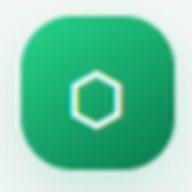
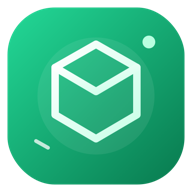
Add files via upload

diff --git a/index.html b/index.html
@@ -6,34 +6,36 @@
 <meta name="theme-color" content="#082c25">
[2 lines of base64/hex data omitted]
-<title>3D Tisk Jarmark</title>
+<title>OPEN 3D MANAGER</title>
 <style>
 :root{--bg:#f3f7f5;--card:#fff;--ink:#142a25;--muted:#6d817b;--green:#0b9b61;--green2:#dff7ec;--line:#e1ebe6;--dark:#082c25;--shadow:0 12px 34px #12382a12}
-*{box-sizing:border-box}body{margin:0;background:var(--bg);color:var(--ink);font-family:Inter,ui-sans-serif,system-ui,-apple-system,BlinkMacSystemFont,"Segoe UI",sans-serif;padding-bottom:100px}button,input{font:inherit}button{cursor:pointer}.app{max-width:1120px;margin:auto;padding:20px 16px 24px}.top{display:flex;align-items:center;gap:13px;margin:6px 0 22px}.logo{width:48px;height:48px;border-radius:16px;background:linear-gradient(145deg,#26d58b,#087a4d);display:grid;place-items:center;color:white;font-size:25px;box-shadow:0 8px 20px #0b9b6130}.title{flex:1;min-width:0}.title h1{font-size:clamp(20px,4vw,28px);letter-spacing:-.8px;margin:0;font-weight:850}.title p{margin:4px 0 0;color:var(--muted);font-size:13px}.iconbtn{border:1px solid var(--line);background:white;border-radius:14px;width:42px;height:42px;color:var(--ink);font-size:19px}.deleteRow{color:#d92d20;background:#fff0ee;border-color:#ffd1cc;font-size:18px;display:inline-grid;place-items:center}.hero{background:linear-gradient(120deg,#07372c,#0a6042);border-radius:24px;padding:22px;color:white;display:flex;align-items:center;justify-content:space-between;gap:12px;box-shadow:var(--shadow);margin-bottom:18px}.hero small{opacity:.75;font-weight:650}.hero h2{font-size:23px;margin:5px 0 4px;letter-spacing:-.5px}.hero p{margin:0;color:#d2eee1;font-size:13px}.hero .cube{font-size:52px;opacity:.9}.actions{display:flex;gap:9px;flex-wrap:wrap;margin-bottom:16px}.btn{border:0;border-radius:13px;padding:12px 15px;font-weight:750;display:inline-flex;align-items:center;justify-content:center;gap:8px}.primary{background:var(--green);color:white;box-shadow:0 7px 18px #0b9b6126}.secondary{background:white;color:var(--ink);border:1px solid var(--line)}.danger{background:#fff0ee;color:#b9362a}.panel{background:var(--card);border:1px solid var(--line);border-radius:20px;box-shadow:var(--shadow);overflow:hidden}.panelhead{padding:17px 18px;display:flex;justify-content:space-between;align-items:center;gap:10px;border-bottom:1px solid var(--line)}.panelhead h3{margin:0;font-size:16px}.panelhead p{margin:4px 0 0;color:var(--muted);font-size:12px}.search{width:100%;max-width:260px;border:1px solid var(--line);border-radius:12px;padding:10px 12px;background:#f9fbfa;outline-color:var(--green)}.tablewrap{overflow-x:auto}table{border-collapse:separate;border-spacing:0;width:100%;min-width:790px}th{background:#e5f7ef;color:#245345;font-size:11px;text-transform:uppercase;letter-spacing:.45px;text-align:left;padding:13px 12px;white-space:nowrap}td{padding:11px 10px;border-top:1px solid #edf2ef;vertical-align:middle}tr:hover td{background:#fbfefc}.productname{min-width:150px;font-weight:750;font-size:13px}.sub{display:block;color:var(--muted);font-size:11px;font-weight:500;margin-top:3px}.cell{width:100%;min-width:65px;border:1px solid #e0eae5;background:#fbfdfc;border-radius:9px;padding:9px 7px;color:var(--ink);outline-color:var(--green);font-size:13px}.cell.price{background:#eaf9f1;border-color:#d7f1e3;color:#087348;font-weight:800}.cell.name{min-width:130px}.summary{display:grid;grid-template-columns:repeat(3,1fr);gap:10px;padding:14px}.stat{background:#eff9f4;border:1px solid #e0f3e9;border-radius:14px;padding:14px}.stat span{display:block;color:#527166;font-size:11px}.stat strong{display:block;margin-top:5px;font-size:20px;letter-spacing:-.5px}.empty{padding:32px;text-align:center;color:var(--muted)}.bottomnav{position:fixed;z-index:10;bottom:0;left:0;right:0;padding:9px 12px calc(9px + env(safe-area-inset-bottom));background:#092c26;color:#a8c5bb;display:flex;justify-content:center;gap:8px;box-shadow:0 -8px 30px #092c261a}.navbtn{border:0;background:transparent;color:inherit;border-radius:14px;min-width:90px;max-width:180px;flex:1;padding:8px 10px;display:flex;align-items:center;justify-content:center;gap:6px;flex-direction:column;font-size:11px;font-weight:700}.navbtn .navico{font-size:20px;line-height:1}.navbtn.active{background:#164a3b;color:#55e6a1}.view{display:none}.view.active{display:block}.calcgrid{display:grid;grid-template-columns:1fr .8fr;gap:16px}.pad{padding:20px}.label{display:block;font-size:13px;font-weight:750;margin-bottom:8px}.biginput{width:100%;padding:16px;border:1px solid var(--line);border-radius:14px;font-size:25px;font-weight:800;outline-color:var(--green);background:#f9fcfa}.unit{position:relative}.unit em{position:absolute;right:15px;top:50%;transform:translateY(-50%);font-style:normal;color:var(--muted);font-weight:700}.presets{display:flex;flex-wrap:wrap;gap:7px;margin-top:10px}.preset{border:1px solid var(--line);background:#f5f8f6;padding:9px 12px;border-radius:10px;font-size:12px;font-weight:750}.result{background:linear-gradient(135deg,#e7f9ef,#f4fcf7);border:1px solid #d6f1e2;border-radius:18px;padding:23px;margin-top:18px}.result span{font-size:13px;color:#497362;font-weight:700}.result strong{display:block;color:#08764a;font-size:clamp(34px,7vw,48px);letter-spacing:-1.5px;margin-top:7px}.hint{color:var(--muted);font-size:12px;line-height:1.5}.settingslist{display:grid;gap:15px;padding:18px}.setting{border:1px solid var(--line);border-radius:15px;padding:16px}.setting h4{margin:0 0 6px}.setting p{margin:0 0 13px;color:var(--muted);font-size:12px;line-height:1.5}.settingrow{display:flex;gap:10px;align-items:center}.settingrow input{max-width:180px;width:100%;border:1px solid var(--line);border-radius:10px;padding:11px}.toast{position:fixed;z-index:20;left:50%;bottom:100px;transform:translateX(-50%);background:#123b2e;color:white;border-radius:12px;padding:11px 15px;font-size:13px;box-shadow:var(--shadow);opacity:0;pointer-events:none;transition:opacity .2s}.toast.show{opacity:1}.modalback{position:fixed;z-index:30;inset:0;background:#061d17a8;display:none;align-items:center;justify-content:center;padding:18px}.modalback.show{display:flex}.modal{background:white;border-radius:20px;padding:22px;width:min(440px,100%);box-shadow:0 25px 80px #0003}.modal h3{margin:0 0 8px}.modal p{color:var(--muted);font-size:13px}.modal input{width:100%;padding:12px;border:1px solid var(--line);border-radius:11px;margin:6px 0 14px}.modalactions{display:flex;gap:9px;justify-content:flex-end}.mobilehint{display:none}
-@media(max-width:700px){.app{padding:15px 12px 20px}.top{margin-bottom:16px}.hero{padding:17px;border-radius:19px}.hero h2{font-size:20px}.hero .cube{font-size:40px}.actions .btn{flex:1;font-size:12px;padding:11px 9px}.panelhead{align-items:flex-start;flex-direction:column}.search{max-width:none}.tablewrap{overflow:visible;padding:0 10px 10px}table,tbody,tr,td{display:block;width:100%;min-width:0}thead{display:none}tbody{display:grid;grid-template-columns:1fr;gap:10px;padding-top:10px}tr{position:relative;border:1px solid var(--line);border-radius:15px;padding:12px;background:white;box-shadow:0 3px 10px #102f1e06}td{border:0;padding:5px 0;display:grid;grid-template-columns:42% 58%;align-items:center;gap:8px}td:before{content:attr(data-label);font-size:11px;color:var(--muted);font-weight:700}td:first-child{display:block;padding:0 0 9px;border-bottom:1px solid var(--line);margin-bottom:5px}td:first-child:before{display:none}.productname{font-size:15px}.cell{min-width:0;padding:9px;font-size:14px}.cell.name{min-width:0}.summary{grid-template-columns:1fr 1fr;padding:10px}.stat:last-child{grid-column:span 2}.stat strong{font-size:18px}.calcgrid{grid-template-columns:1fr}.pad{padding:16px}.bottomnav{gap:2px}.navbtn{min-width:0;padding:8px 4px}.mobilehint{display:block;color:var(--muted);font-size:11px;padding:0 16px 10px}.result strong{font-size:40px}}
+*{box-sizing:border-box}body{margin:0;padding-top:32px;background:var(--bg);color:var(--ink);font-family:Inter,ui-sans-serif,system-ui,-apple-system,BlinkMacSystemFont,"Segoe UI",sans-serif;padding-bottom:100px}button,input{font:inherit}button{cursor:pointer}.app{max-width:1120px;margin:auto;padding:20px 16px 24px}.top{display:flex;align-items:center;gap:13px;margin:6px 0 22px}.logo{width:48px;height:48px;border-radius:16px;background:linear-gradient(145deg,#26d58b,#087a4d);display:grid;place-items:center;color:white;font-size:25px;box-shadow:0 8px 20px #0b9b6130}.title{flex:1;min-width:0}.title h1{font-size:clamp(20px,4vw,28px);letter-spacing:-.8px;margin:0;font-weight:850}.title p{margin:4px 0 0;color:var(--muted);font-size:13px}.iconbtn{border:1px solid var(--line);background:white;border-radius:14px;width:42px;height:42px;color:var(--ink);font-size:19px}.deleteRow{color:#d92d20;background:#fff0ee;border-color:#ffd1cc;font-size:18px;display:inline-grid;place-items:center}.hero{background:linear-gradient(120deg,#07372c,#0a6042);border-radius:24px;padding:22px;color:white;display:flex;align-items:center;justify-content:space-between;gap:12px;box-shadow:var(--shadow);margin-bottom:18px}.hero small{opacity:.75;font-weight:650}.hero h2{font-size:23px;margin:5px 0 4px;letter-spacing:-.5px}.hero p{margin:0;color:#d2eee1;font-size:13px}.hero .cube{font-size:52px;opacity:.9}.actions{display:flex;gap:9px;flex-wrap:wrap;margin-bottom:16px}.btn{border:0;border-radius:13px;padding:12px 15px;font-weight:750;display:inline-flex;align-items:center;justify-content:center;gap:8px}.primary{background:var(--green);color:white;box-shadow:0 7px 18px #0b9b6126}.secondary{background:white;color:var(--ink);border:1px solid var(--line)}.danger{background:#fff0ee;color:#b9362a}.panel{background:var(--card);border:1px solid var(--line);border-radius:20px;box-shadow:var(--shadow);overflow:hidden}.panelhead{padding:17px 18px;display:flex;justify-content:space-between;align-items:center;gap:10px;border-bottom:1px solid var(--line)}.panelhead h3{margin:0;font-size:16px}.panelhead p{margin:4px 0 0;color:var(--muted);font-size:12px}.search{width:100%;max-width:260px;border:1px solid var(--line);border-radius:12px;padding:10px 12px;background:#f9fbfa;outline-color:var(--green)}.tablewrap{overflow-x:auto}table{border-collapse:separate;border-spacing:0;width:100%;min-width:790px}th{background:#e5f7ef;color:#245345;font-size:11px;text-transform:uppercase;letter-spacing:.45px;text-align:left;padding:13px 12px;white-space:nowrap}td{padding:11px 10px;border-top:1px solid #edf2ef;vertical-align:middle}tr:hover td{background:#fbfefc}.productname{min-width:150px;font-weight:750;font-size:13px}.sub{display:block;color:var(--muted);font-size:11px;font-weight:500;margin-top:3px}.cell{width:100%;min-width:65px;border:1px solid #e0eae5;background:#fbfdfc;border-radius:9px;padding:9px 7px;color:var(--ink);outline-color:var(--green);font-size:13px}.cell.price{background:#eaf9f1;border-color:#d7f1e3;color:#087348;font-weight:800}.cell.name{min-width:130px}.summary{display:grid;grid-template-columns:repeat(3,1fr);gap:10px;padding:14px}.stat{background:#eff9f4;border:1px solid #e0f3e9;border-radius:14px;padding:14px}.stat span{display:block;color:#527166;font-size:11px}.stat strong{display:block;margin-top:5px;font-size:20px;letter-spacing:-.5px}.empty{padding:32px;text-align:center;color:var(--muted)}.bottomnav{position:fixed;z-index:10;bottom:0;left:0;right:0;padding:9px 12px calc(9px + env(safe-area-inset-bottom));background:#092c26;color:#a8c5bb;display:flex;justify-content:center;gap:8px;box-shadow:0 -8px 30px #092c261a}.navbtn{border:0;background:transparent;color:inherit;border-radius:14px;min-width:90px;max-width:180px;flex:1;padding:8px 10px;display:flex;align-items:center;justify-content:center;gap:6px;flex-direction:column;font-size:11px;font-weight:700}.navbtn .navico{font-size:20px;line-height:1}.navbtn.active{background:#164a3b;color:#55e6a1}.view{display:none}.view.active{display:block}.calcgrid{display:grid;grid-template-columns:1fr .8fr;gap:16px}.pad{padding:20px}.label{display:block;font-size:13px;font-weight:750;margin-bottom:8px}.biginput{width:100%;padding:16px;border:1px solid var(--line);border-radius:14px;font-size:25px;font-weight:800;outline-color:var(--green);background:#f9fcfa}.unit{position:relative}.unit em{position:absolute;right:15px;top:50%;transform:translateY(-50%);font-style:normal;color:var(--muted);font-weight:700}.presets{display:flex;flex-wrap:wrap;gap:7px;margin-top:10px}.preset{border:1px solid var(--line);background:#f5f8f6;padding:9px 12px;border-radius:10px;font-size:12px;font-weight:750}.result{background:linear-gradient(135deg,#e7f9ef,#f4fcf7);border:1px solid #d6f1e2;border-radius:18px;padding:23px;margin-top:18px}.result span{font-size:13px;color:#497362;font-weight:700}.result strong{display:block;color:#08764a;font-size:clamp(34px,7vw,48px);letter-spacing:-1.5px;margin-top:7px}.hint{color:var(--muted);font-size:12px;line-height:1.5}.settingslist{display:grid;gap:15px;padding:18px}.setting{border:1px solid var(--line);border-radius:15px;padding:16px}.setting h4{margin:0 0 6px}.setting p{margin:0 0 13px;color:var(--muted);font-size:12px;line-height:1.5}.settingrow{display:flex;gap:10px;align-items:center}.settingrow input{max-width:180px;width:100%;border:1px solid var(--line);border-radius:10px;padding:11px}.toast{position:fixed;z-index:20;left:50%;bottom:100px;transform:translateX(-50%);background:#123b2e;color:white;border-radius:12px;padding:11px 15px;font-size:13px;box-shadow:var(--shadow);opacity:0;pointer-events:none;transition:opacity .2s}.toast.show{opacity:1}.modalback{position:fixed;z-index:30;inset:0;background:#061d17a8;display:none;align-items:center;justify-content:center;padding:18px}.modalback.show{display:flex}.modal{background:white;border-radius:20px;padding:22px;width:min(440px,100%);box-shadow:0 25px 80px #0003}.modal h3{margin:0 0 8px}.modal p{color:var(--muted);font-size:13px}.modal input{width:100%;padding:12px;border:1px solid var(--line);border-radius:11px;margin:6px 0 14px}.modalactions{display:flex;gap:9px;justify-content:flex-end}.mobilehint{display:none}
+@media(max-width:700px){body{padding-top:38px}.app{padding:15px 12px 20px}.top{margin-bottom:16px}.hero{padding:17px;border-radius:19px}.hero h2{font-size:20px}.hero .cube{font-size:40px}.actions .btn{flex:1;font-size:12px;padding:11px 9px}.panelhead{align-items:flex-start;flex-direction:column}.search{max-width:none}.tablewrap{overflow:visible;padding:0 10px 10px}table,tbody,tr,td{display:block;width:100%;min-width:0}thead{display:none}tbody{display:grid;grid-template-columns:1fr;gap:10px;padding-top:10px}tr{position:relative;border:1px solid var(--line);border-radius:15px;padding:12px;background:white;box-shadow:0 3px 10px #102f1e06}td{border:0;padding:5px 0;display:grid;grid-template-columns:42% 58%;align-items:center;gap:8px}td:before{content:attr(data-label);font-size:11px;color:var(--muted);font-weight:700}td:first-child{display:block;padding:0 0 9px;border-bottom:1px solid var(--line);margin-bottom:5px}td:first-child:before{display:none}.productname{font-size:15px}.cell{min-width:0;padding:9px;font-size:14px}.cell.name{min-width:0}.summary{grid-template-columns:1fr 1fr;padding:10px}.stat:last-child{grid-column:span 2}.stat strong{font-size:18px}.calcgrid{grid-template-columns:1fr}.pad{padding:16px}.bottomnav{gap:2px}.navbtn{min-width:0;padding:8px 4px}.mobilehint{display:block;color:var(--muted);font-size:11px;padding:0 16px 10px}.result strong{font-size:40px}}
 </style>
 
 <meta name="theme-color" content="#082c25">
 <meta name="mobile-web-app-capable" content="yes">
 <meta name="apple-mobile-web-app-capable" content="yes">
 <meta name="apple-mobile-web-app-status-bar-style" content="black-translucent">
-<meta name="apple-mobile-web-app-title" content="3D Tisk Jarmark">
-<link rel="manifest" href="manifest.webmanifest">
+<meta name="apple-mobile-web-app-title" content="OPEN 3D MANAGER">
+
 <link rel="apple-touch-icon" href="icon-192.png">
 
+<link rel="manifest" href="manifest.webmanifest">
+<link rel="apple-touch-icon" href="icon-192.png">
 </head>
 <body>
 <div class="app">
 <header class="top">
   <div class="logo">⬡</div>
-  <div class="title"><h1>3D TISK JARMARK</h1><p>Správa produktů a nákladů</p></div>
+  <div class="title"><h1>OPEN 3D MANAGER</h1><p>Správa produktů a nákladů</p></div>
   <button class="btn primary" id="installAppBtn" style="display:none;padding:10px 12px;font-size:12px" title="Nainstalovat aplikaci">⬇ Instalovat</button>
   <button class="iconbtn" id="exportBtn" title="Export dat">⇧</button>
   <button class="iconbtn" id="importBtn" title="Import dat">⋯</button>
   <input type="file" id="importFile" accept="application/json" hidden>
 </header>
 <section class="hero">
- <div><small>PRODEJNÍ PŘEHLED</small><h2>Měj v tom jasno. 🟢</h2><p>Produkty, náklady i ceny na jednom místě.</p></div><div class="cube">▧</div>
+ <div><small>PRODEJNÍ PŘEHLED</small><h2>Vše pod kontrolou.</h2><p>Produkty, náklady i ceny na jednom místě.</p></div><div class="cube">▧</div>
 </section>
 <section class="view active" id="productsView">
  <div class="actions"><button class="btn primary" id="addBtn">＋ Přidat produkt</button></div>
@@ -76,7 +78,7 @@
 <div class="toast" id="toast">Uloženo</div>
 <div class="modalback" id="modalBack"><div class="modal"><h3 id="modalTitle">Přidat produkt</h3><p id="modalText">Zadej název produktu.</p><input id="modalInput" placeholder="Název produktu"><div class="modalactions"><button class="btn secondary" id="modalCancel">Zrušit</button><button class="btn primary" id="modalConfirm">Přidat</button></div></div></div>
 <script>
-const KEY='3dTiskJarmark.v1';
+const KEY='open3DManager.v1';
 const defaults=[
 {id:1,name:'Creeper záložka',grams:3,other:0,price:20,qty:10},
 {id:2,name:'Kostlivec záložka',grams:3,other:0,price:20,qty:10},
@@ -125,10 +127,55 @@ document.querySelectorAll('[data-grams]').forEach(b=>b.addEventListener('click',
 $('saveSettings').addEventListener('click',()=>{state.rate=Math.max(0,Number($('rateSetting').value)||0);state.markup=Math.max(0,Number($('markupSetting').value)||0);persist();render();showToast('Nastavení uloženo')});
 $('rateSetting').addEventListener('change',()=>{state.rate=Math.max(0,Number($('rateSetting').value)||0);persist();render()});
 $('markupSetting').addEventListener('change',()=>{state.markup=Math.max(0,Number($('markupSetting').value)||0);persist()});
-$('exportBtn').addEventListener('click',exportData);$('settingsExport').addEventListener('click',exportData);
-function exportData(){const blob=new Blob([JSON.stringify(state,null,2)],{type:'application/json'}),url=URL.createObjectURL(blob),a=document.createElement('a');a.href=url;a.download='3d-tisk-jarmark-zaloha.json';a.click();URL.revokeObjectURL(url);showToast('Záloha připravena')}
-$('importBtn').addEventListener('click',()=>$('importFile').click());
-$('importFile').addEventListener('change',async e=>{const f=e.target.files[0];if(!f)return;try{const s=JSON.parse(await f.text());if(!Array.isArray(s.products)||!Number.isFinite(Number(s.rate)))throw Error();state={rate:Math.max(0,Number(s.rate)),markup:Math.max(0,Number(s.markup)||0),products:s.products};persist();render();showToast('Záloha importována')}catch(err){alert('Soubor se nepodařilo načíst. Vyber platnou zálohu této aplikace.')}e.target.value=''});
+$('exportBtn').addEventListener('click',exportData);
+$('settingsExport').addEventListener('click',exportData);
+function exportData(){
+  try {
+    const json = JSON.stringify(state, null, 2);
+    if (window.AndroidBridge && typeof window.AndroidBridge.exportBackup === 'function') {
+      window.AndroidBridge.exportBackup(json);
+      return;
+    }
+    const blob = new Blob([json], {type:'application/json;charset=utf-8'});
+    const url = URL.createObjectURL(blob);
+    const a = document.createElement('a'); a.href=url; a.download='open-3d-manager-zaloha.json';
+    document.body.appendChild(a); a.click(); a.remove();
+    setTimeout(()=>URL.revokeObjectURL(url),3000);
+    showToast('Záloha se připravuje');
+  } catch(err) { alert('Export zálohy se nezdařil: '+err.message); }
+}
+window.importBackupJson = function(json) {
+  try {
+    const s = JSON.parse(json);
+    if (!s || !Array.isArray(s.products) || !Number.isFinite(Number(s.rate))) throw new Error('Soubor nemá formát zálohy OPEN 3D MANAGER.');
+    state = {rate:Math.max(0,Number(s.rate)), markup:Math.max(0,Number(s.markup)||0), products:s.products.map(p=>({...p}))};
+    persist(); render(); showToast('Záloha úspěšně načtena');
+  } catch(err) { alert('Import se nezdařil: '+(err.message||'Neplatný soubor.')); }
+};
+$('importBtn').addEventListener('click',()=>{
+  if(window.AndroidBridge && typeof window.AndroidBridge.importBackup === 'function') {
+    window.AndroidBridge.importBackup();
+  } else {
+    $('importFile').value = '';
+    $('importFile').click();
+  }
+});
+
+$('importFile').addEventListener('change',e=>{
+ const f=e.target.files && e.target.files[0]; if(!f)return;
+ const reader=new FileReader();
+ reader.onload=()=>{
+  try {
+   const s=JSON.parse(String(reader.result||''));
+   if(!s || !Array.isArray(s.products) || !Number.isFinite(Number(s.rate))) throw new Error('Soubor nemá správný formát zálohy.');
+   state={rate:Math.max(0,Number(s.rate)),markup:Math.max(0,Number(s.markup)||0),products:s.products.map(p=>({...p}))};
+   persist();render();showToast('Záloha importována');
+  } catch(err) { alert('Soubor se nepodařilo načíst. Vyber platnou zálohu OPEN 3D MANAGER. '+(err.message||'')); }
+  $('importFile').value='';
+ };
+ reader.onerror=()=>{alert('Soubor se nepodařilo přečíst.');$('importFile').value='';};
+ reader.readAsText(f);
+});
 
 $('clearData').addEventListener('click',()=>{if(confirm('Opravdu smazat všechna uložená data? Tuto akci nelze vrátit.')){localStorage.removeItem(KEY);state={rate:0.4,markup:100,products:[]};persist();render();showToast('Data smazána')}});
 
@@ -154,7 +201,7 @@ if (installButton) {
 window.addEventListener('appinstalled', () => {
   if (installButton) installButton.style.display = 'none';
 });
-if ('serviceWorker' in navigator && (location.protocol === 'https:' || location.hostname === 'localhost')) {
+if (false && 'serviceWorker' in navigator && (location.protocol === 'https:' || location.hostname === 'localhost')) {
   window.addEventListener('load', () => navigator.serviceWorker.register('./sw.js').catch(() => {}));
 }
 

diff --git a/sw.js b/sw.js
@@ -1,0 +1,5 @@
+const CACHE="open-3d-manager-web-v1";
+const FILES=["./","./index.html","./manifest.webmanifest","./icon-192.png","./icon-512.png"];
+self.addEventListener("install",e=>e.waitUntil(caches.open(CACHE).then(c=>c.addAll(FILES))));
+self.addEventListener("activate",e=>e.waitUntil(caches.keys().then(keys=>Promise.all(keys.filter(k=>k!==CACHE).map(k=>caches.delete(k))))));
+self.addEventListener("fetch",e=>{if(e.request.method==="GET")e.respondWith(caches.match(e.request).then(r=>r||fetch(e.request)));});
